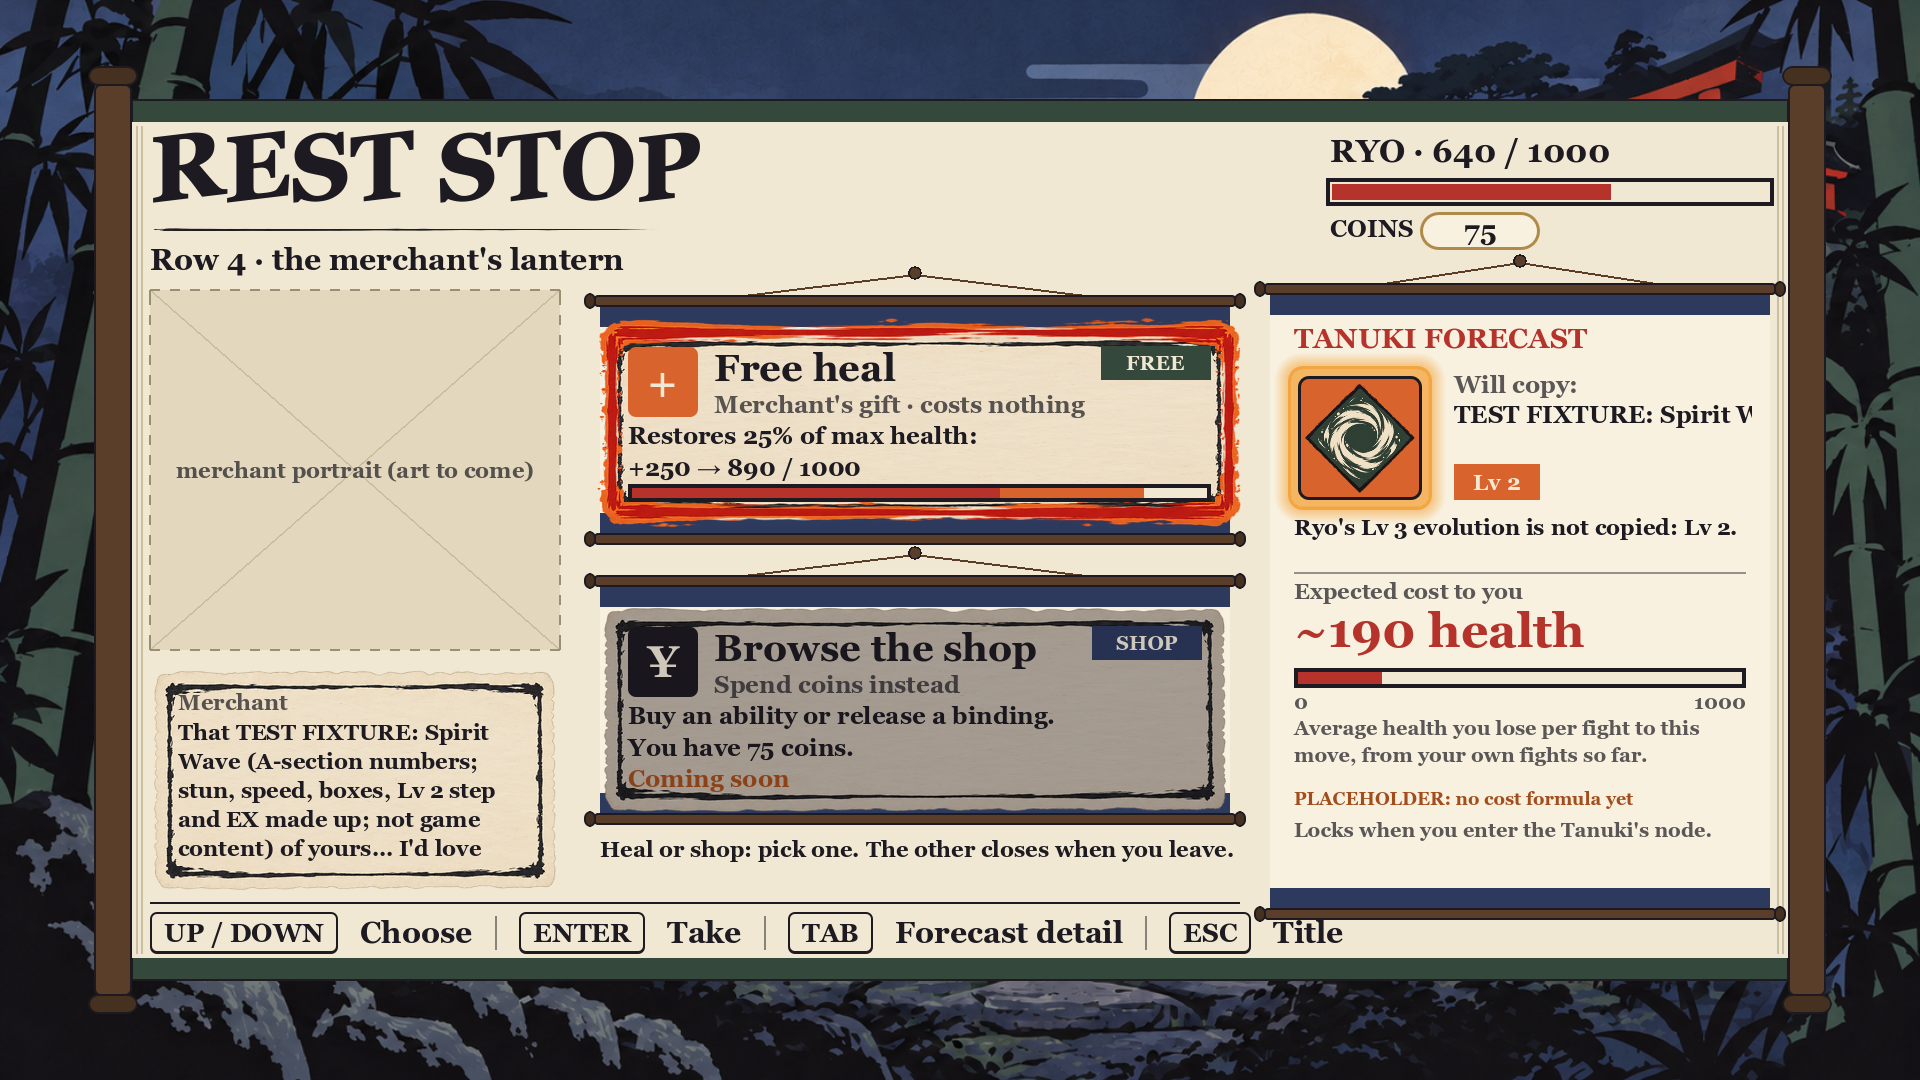
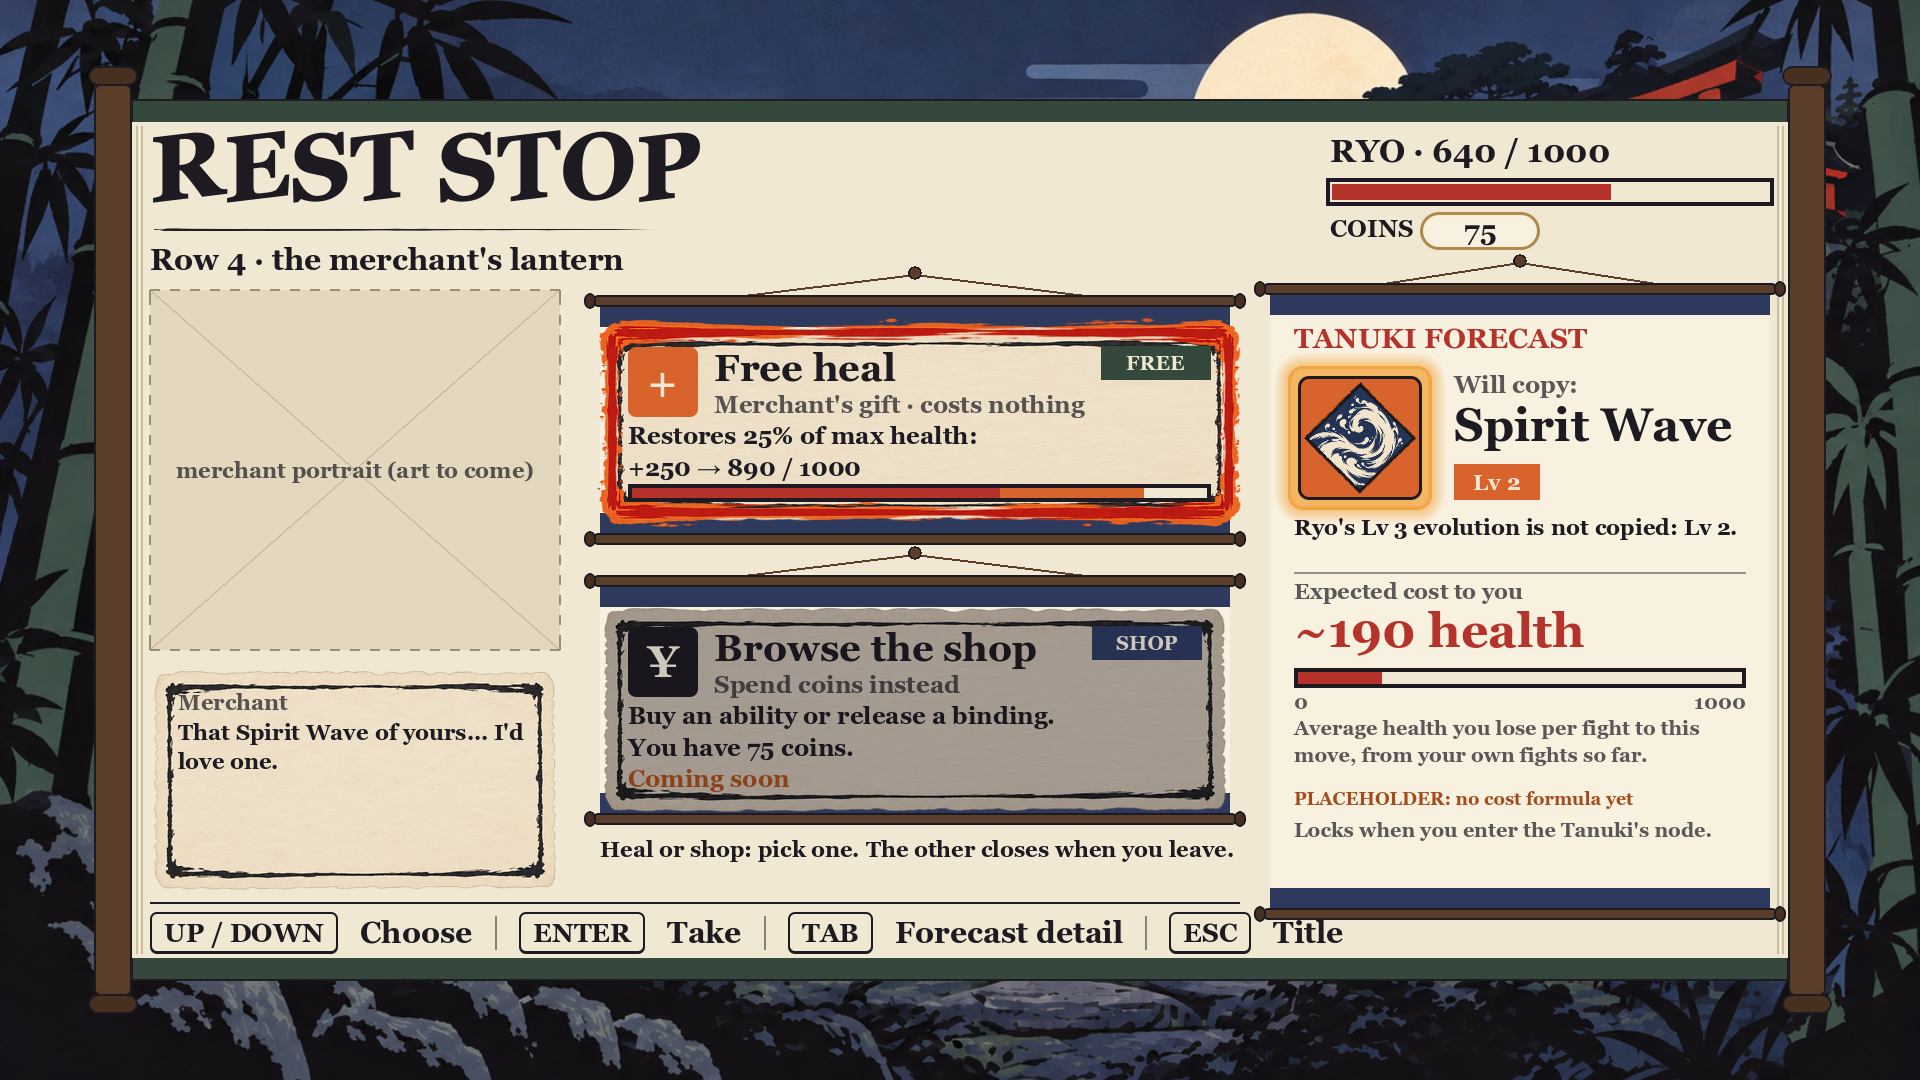
YOK-96-rest-stop-screen: bind the model to its own stop, fit move names, null-forecast labels, row-7 line, coverage

Changed region(s): [[0.0938, 0.6722, 0.2812, 0.7944], [0.6875, 0.3667, 0.9062, 0.4583]]

diff --git a/game/tests/RestStopTests.cs b/game/tests/RestStopTests.cs
@@ -64,6 +64,26 @@ public static class RestStopTests
 		return s;
 	}
 
+	static bool Leads(RunSession s, string from, string to) =>
+		from == to || s.Map.Graph.Next(from).Any(n => Leads(s, n, to));
+
+	/// <summary>A run standing at the named node (a stop), every earlier stop passed and every fight won.</summary>
+	static RunSession AtNode(string nodeId, int health = 300)
+	{
+		var s = NewSession();
+		for (; ; )
+		{
+			var next = s.Reachable();
+			string pick = next.First(id => Leads(s, id, nodeId));
+			Assert.True(s.Enter(pick).Ok, "entered " + pick);
+			if (pick == nodeId) break;
+			if (s.Node!.Type is "merchant" or "dojo") Assert.True(s.CompleteNode().Ok, "a stop passed");
+			else Finish(s, health);
+		}
+		s.Run.SetHealth(health);
+		return s;
+	}
+
 	// ---- the Tanuki forecast (T6) ----
 
 	[Test]
@@ -89,9 +109,16 @@ public static class RestStopTests
 	{
 		var s = AtStop("boss");
 		Assert.True(s.CopyLocked && s.LockedCopy != null, "entering the Tanuki's node took the T1 lock");
-		var f = RestStopScreenForecast.For(s)!;
 		var l = s.LockedCopy!;
-		Assert.True(f.Locked && f.SpecialId == l.Data.Id && f.Slot == l.Slot && f.RyoLevel == l.Level && f.Level == l.MoveLevel, "after the lock: the forecast is LockedCopy");
+		// Ryo moves on after the lock: level the other specials until one overtakes it (T2/T3) ...
+		foreach (var sl in s.Run.Owned.Select(o => o.Slot).Where(x => x != l.Slot).ToList())
+			while (s.Run.CanLevelUp(sl) && CopyRule.Target(s.Run)!.Slot == l.Slot) s.Run.LevelUp(sl);
+		// ... or, if the locked one is out of reach, it is replaced by another special of its slot (A6).
+		if (CopyRule.Target(s.Run)!.Slot == l.Slot)
+			s.Run.Equip(s.Pool.Specials.First(sp => sp.Slot == l.Slot && sp.Id != l.Data.Id));
+		Assert.True(CopyRule.Target(s.Run)!.Data.Id != l.Data.Id,"the current best is now a different special than the lock");
+		var f = RestStopScreenForecast.For(s)!;
+		Assert.True(f.Locked && f.SpecialId == l.Data.Id && f.Slot == l.Slot && f.RyoLevel == l.Level && f.Level == l.MoveLevel, "after the lock: the forecast is still LockedCopy, not the new best");
 	});
 
 	// ---- the model: one choice per stop ----
@@ -133,6 +160,85 @@ public static class RestStopTests
 		s.Enter("r1-apprentice");
 		Assert.True(RestStopScreenModel.Create(s) == null, "a duel is not a stop");
 	});
+
+	[Test]
+	public static void Model_BoundToItsOwnStop_ALaterStopOfTheSessionIsNotIt() => OnFixtures(() =>
+	{
+		var t = AtNode("r4-merchant");
+		var old = RestStopScreenModel.Create(t)!;
+		Assert.True(old.TakeFree().Ok && old.Leave().Ok, "row 4 taken and left");
+		foreach (string id in new[] { "r5-elder-oni", "r6-kitsune", "r7-merchant" })
+		{
+			Assert.True(t.Enter(id).Ok, "entered " + id);
+			if (id != "r7-merchant") Finish(t, 300);
+		}
+		ulong before = t.StateHash();
+		int hp = t.Run.Health;
+		Assert.True(!old.Open && !old.TakeFree().Ok && !old.Leave().Ok, "the row-4 model does nothing at row 7");
+		Assert.True(t.StateHash() == before && t.Run.Health == hp && t.Node!.NodeId == "r7-merchant", "and row 7's choice stays unspent, the node stays entered");
+		var m7 = RestStopScreenModel.Create(t)!;
+		Assert.True(m7.Row == 7 && m7.Kind == RestStopKind.Merchant && m7.Free == RestStopOption.Ready && m7.FreePercent == 25, "a model made for row 7 can take it");
+	});
+
+	[Test]
+	public static void Merchant_Row7_FullHealthHealIsPlusZero_AndTheStopIsStillSpent() => OnFixtures(() =>
+	{
+		var s = AtNode("r7-merchant", 1000);
+		var m = RestStopScreenModel.Create(s)!;
+		Assert.True(m.Row == 7 && m.FreeGain == 0 && m.HealthAfterFree == 1000, "at full health the preview reads +0");
+		Assert.True(m.TakeFree().Ok && s.Run.Health == 1000 && m.FreeGain == 0 && m.ChoiceMade, "taken: nothing healed, the choice is spent anyway");
+		Assert.True(!m.TakeFree().Ok && m.Leave().Ok, "no second take, then leave");
+	});
+
+	[Test]
+	public static void Dojo_QuitThenContinue_ShowsTheDojoAgainWithNoRestTaken_M5(Node runner)
+	{
+		string dir = Path.Combine(Path.GetTempPath(), "yokai-reststop-" + Guid.NewGuid().ToString("N"));
+		Directory.CreateDirectory(dir);
+		var saved = FightScene.Sources;
+		var savedRun = FightScene.Run;
+		var savedFoe = FightScene.Opponent;
+		FightScene.Sources = FightScene.FixtureSources;
+		FightScene.Run = null;
+		MenuSettings.Reset();
+		var flow = GD.Load<PackedScene>("res://scenes/boot.tscn").Instantiate<GameFlow>();
+		flow.QuitAction = () => { };
+		flow.FixedRunSeed = 77;
+		flow.SaveFile = Path.Combine(dir, "run.dat");
+		flow.ConfigureFight = f => f.ExternalDrive = true;
+		try
+		{
+			runner.AddChild(flow);
+			flow.Title.StartButton.EmitSignal(BaseButton.SignalName.Pressed);
+			flow.ControlSelect.Start.EmitSignal(BaseButton.SignalName.Pressed);
+			var s = flow.Session!;
+			while (true)
+			{
+				string id = s.Reachable().First(n => Leads(s, n, "r7-dojo"));
+				Assert.True(flow.ChooseNode(id).Ok, "entered " + id);
+				if (id == "r7-dojo") break;
+				if (flow.NodeScene is RestStopScreen early) Assert.True(early.TakeFree() && early.Leave(), "a stop passed");
+				else Finish(s, 300);
+			}
+			var screen = (RestStopScreen)flow.NodeScene!;
+			int entry = s.Run.Health;
+			Assert.True(screen.TakeFree() && s.Run.Health > entry, "rested");
+			Assert.True(flow.ReturnToTitle() && flow.ContinueRun(), "quit and Continue");
+			var again = (RestStopScreen)flow.NodeScene!;
+			Assert.True(again != screen && again.Model!.Kind == RestStopKind.Dojo && !again.Model.ChoiceMade && !again.ContinueButton.Visible, "the dojo again, no choice taken (M5)");
+			Assert.True(flow.Session!.Run.Health == entry, "entry-state health");
+		}
+		finally
+		{
+			runner.RemoveChild(flow);
+			flow.QueueFree();
+			MenuSettings.Reset();
+			FightScene.Sources = saved;
+			FightScene.Run = savedRun;
+			FightScene.Opponent = savedFoe;
+			try { Directory.Delete(dir, true); } catch (IOException) { }
+		}
+	}
 
 	// ---- the scene ----
 
@@ -254,5 +360,54 @@ public static class RestStopTests
 			FightScene.Opponent = savedFoe;
 			try { Directory.Delete(dir, true); } catch (IOException) { }
 		}
+	}
+
+	[Test]
+	public static void Scene_Row7MerchantShowsNoRow4StoryLine_AndNoForecastClearsItsLabels(Node runner) => OnFixtures(() =>
+	{
+		var s = AtNode("r7-merchant");
+		var screen = GD.Load<PackedScene>(Scene).Instantiate<RestStopScreen>();
+		screen.BindRun(s, ControlScheme.Kihon);
+		runner.AddChild(screen);
+		try
+		{
+			string line = L(screen, "LineBox/Box/Line").Text;
+			Assert.True(!line.Contains("I'd love") && line.Contains("S3"), "row 7 gets a labelled placeholder, not the row-4 card");
+		}
+		finally { runner.RemoveChild(screen); screen.Free(); }
+
+		// Ryo owns no special (a state T5 makes unreachable in play): the forecast has nothing to say and says nothing stale
+		var walked = AtNode("r4-merchant");
+		var run = RunState.Restore(500, Array.Empty<(SpecialSlot, OwnedSpecial)>());
+		run.SetMap(walked.Map);
+		var bare = RunSession.Restore(run, walked.Pool, NodeSceneTable.Default(MapDir), 5, false, null);
+		var empty = GD.Load<PackedScene>(Scene).Instantiate<RestStopScreen>();
+		empty.LineSource = _ => "A line.";
+		empty.BindRun(bare, ControlScheme.Kihon);
+		runner.AddChild(empty);
+		try
+		{
+			Assert.True(RestStopScreenForecast.For(bare) == null, "no forecast");
+			Assert.True(!empty.GetNode<Control>("Forecast/LevelTag").Visible && !empty.GetNode<Control>("Forecast/Placeholder").Visible, "no level tag, no placeholder");
+			Assert.True(L(empty, "Forecast/CostValue").Text == "" && !L(empty, "Forecast/LockNote").Text.Contains("Locks when you enter") && !L(empty, "Forecast/CopyNote").Text.StartsWith("Copied at your level"), "no stale cost, lock or copy line");
+		}
+		finally { runner.RemoveChild(empty); empty.Free(); }
+	});
+
+	[Test]
+	public static void Forecast_EveryMoveNameFitsItsColumn_TheRulesEightAndThePool(Node runner)
+	{
+		var screen = GD.Load<PackedScene>(Scene).Instantiate<RestStopScreen>();
+		runner.AddChild(screen);
+		try
+		{
+			var label = screen.GetNode<Label>("Forecast/SpecialName");
+			var font = label.GetThemeFont("font");
+			var names = new System.Collections.Generic.List<string> { "Spirit Wave", "Rising Talisman", "Foxfire", "Fox Mirage", "Iron-Club Charge", "Oni Quake", "River Grab", "Shell Spin" };
+			names.AddRange(FightScene.LoadAbilityPool().Specials.Select(sp => sp.Name.Length > 0 ? sp.Name : sp.Id));
+			foreach (string n in names.Distinct())
+				Assert.True(RestStopScreen.NameFits(font, n, label.Size.X, label.Size.Y), $"'{n}' fits the forecast column ({label.Size.X}x{label.Size.Y})");
+		}
+		finally { runner.RemoveChild(screen); screen.Free(); }
 	}
 }

diff --git a/game/scripts/Ui/RestStopScreenModel.cs b/game/scripts/Ui/RestStopScreenModel.cs
@@ -16,12 +16,14 @@ public enum RestStopOption { Ready, Taken, Closed, ComingSoon }
 public sealed class RestStopScreenModel
 {
 	readonly RunSession _session;
+	readonly Merchant? _merchant; // the stop this model was made for: a later stop of the session is not this one
+	readonly Dojo? _dojo;
 	int _gain;
 
 	public RestStopKind Kind { get; }
 	public int Row { get; }
 
-	RestStopScreenModel(RunSession session, RestStopKind kind, int row) { _session = session; Kind = kind; Row = row; }
+	RestStopScreenModel(RunSession session, RestStopKind kind, int row, Merchant? merchant, Dojo? dojo) { _session = session; Kind = kind; Row = row; _merchant = merchant; _dojo = dojo; }
 
 	/// <summary>The model for the node Ryo is standing at, or null when it is not a merchant or a dojo.</summary>
 	public static RestStopScreenModel? Create(RunSession session)
@@ -29,8 +31,8 @@ public sealed class RestStopScreenModel
 		if (session?.Node is not { } node) return null;
 		return node.Type switch
 		{
-			NodeTypeRegistry.Merchant when session.Merchant is not null => new(session, RestStopKind.Merchant, node.Row),
-			NodeTypeRegistry.Dojo when session.Dojo is not null => new(session, RestStopKind.Dojo, node.Row),
+			NodeTypeRegistry.Merchant when session.Merchant is not null => new(session, RestStopKind.Merchant, node.Row, session.Merchant, null),
+			NodeTypeRegistry.Dojo when session.Dojo is not null => new(session, RestStopKind.Dojo, node.Row, null, session.Dojo),
 			_ => null,
 		};
 	}
@@ -44,28 +46,29 @@ public sealed class RestStopScreenModel
 	public int FreePercent => Kind == RestStopKind.Merchant ? Merchant.HealPercent : Dojo.RestHealPercent;
 
 	/// <summary>Health after the free option from now (the card's preview), or the health Ryo has once it is taken.</summary>
+	// YOK-98: the dojo's capped preview is recomputed here (Dojo has no 'Healed(health)' like Merchant); move it into Dojo.cs when that file is open.
 	public int HealthAfterFree => Kind == RestStopKind.Merchant ? Merchant.Healed(Health) : Math.Min(MaxHealth, Health + Dojo.RestHeal);
 
 	/// <summary>Health the free option adds from now; once it is taken, what it did add.</summary>
 	public int FreeGain => ChoiceMade ? _gain : HealthAfterFree - Health;
 
 	/// <summary>Both cards: the stop's one choice is spent, whichever card it was.</summary>
-	public bool ChoiceMade => Kind == RestStopKind.Merchant ? _session.Merchant is { Choice: not MerchantChoice.None } : _session.Dojo is { Choice: not DojoChoice.None };
+	public bool ChoiceMade => Kind == RestStopKind.Merchant ? _merchant is { Choice: not MerchantChoice.None } : _dojo is { Choice: not DojoChoice.None };
 
 	/// <summary>The stop is still the one Ryo is standing at (it is not after the node is completed or the run ends).</summary>
-	public bool Open => Kind == RestStopKind.Merchant ? _session.Merchant is { Open: true } : _session.Dojo is { IsOpen: true };
+	public bool Open => Kind == RestStopKind.Merchant ? _merchant is { Open: true } : _dojo is { IsOpen: true };
 
-	public bool CanTakeFree => Kind == RestStopKind.Merchant ? _session.Merchant is { CanHeal: true } : _session.Dojo is { CanRest: true };
+	public bool CanTakeFree => Kind == RestStopKind.Merchant ? _merchant is { CanHeal: true } : _dojo is { CanRest: true };
 
 	/// <summary>The shop screen is YOK-104 and the trial YOK-98: until they land the second card is shown, not takeable.</summary>
 	public static bool SecondCardBuilt { get; set; }
 
 	public RestStopOption Free => !ChoiceMade ? RestStopOption.Ready
-		: Kind == RestStopKind.Merchant ? (_session.Merchant!.Choice == MerchantChoice.Heal ? RestStopOption.Taken : RestStopOption.Closed)
+		: Kind == RestStopKind.Merchant ? (_merchant!.Choice == MerchantChoice.Heal ? RestStopOption.Taken : RestStopOption.Closed)
 		: RestStopOption.Taken;
 
 	public RestStopOption Second => ChoiceMade
-		? (Kind == RestStopKind.Merchant && _session.Merchant!.Choice == MerchantChoice.Shop ? RestStopOption.Taken : RestStopOption.Closed)
+		? (Kind == RestStopKind.Merchant && _merchant!.Choice == MerchantChoice.Shop ? RestStopOption.Taken : RestStopOption.Closed)
 		: SecondCardBuilt ? RestStopOption.Ready : RestStopOption.ComingSoon;
 
 	/// <summary>R6 / R7: takes the free heal or the rest. Refused, changing nothing, when the choice is already made or the stop is left.</summary>
@@ -73,13 +76,16 @@ public sealed class RestStopScreenModel
 	{
 		if (!Open) return MapResult.Fail("Ryo is no longer at this stop");
 		int before = Health;
-		var r = Kind == RestStopKind.Merchant ? _session.Merchant!.TakeHeal() : _session.Dojo!.Rest();
+		var r = Kind == RestStopKind.Merchant ? _merchant!.TakeHeal() : _dojo!.Rest();
 		if (r.Ok) _gain = Health - before;
 		return r;
 	}
 
 	/// <summary>Leaves the stop for the map. Only once the choice is made: leaving without one is an open designer question, so it is not offered.</summary>
-	public MapResult Leave() => ChoiceMade ? _session.CompleteNode() : MapResult.Fail("pick one first: the free option or the second one");
+	public MapResult Leave() =>
+		!Open ? MapResult.Fail("Ryo is no longer at this stop")
+		: !ChoiceMade ? MapResult.Fail("pick one first: the free option or the second one")
+		: _session.CompleteNode();
 
 	public RestStopScreenForecast? Forecast => RestStopScreenForecast.For(_session);
 }

diff --git a/game/scripts/Ui/RestStopScreen.cs b/game/scripts/Ui/RestStopScreen.cs
@@ -134,9 +134,22 @@ public partial class RestStopScreen : Control, INodeScene
 		else footer.SetHints(new("move", "Choose"), new("confirm", "Take"), new("frames", "Forecast detail"), new("back", "Title"));
 	}
 
+	/// <summary>The largest font size (46 down to 20) at which <paramref name="text"/> wraps to fit a column of this size.</summary>
+	public static int NameFontSize(Font font, string text, float width, float height)
+	{
+		int size = 46;
+		while (size > 20 && font.GetMultilineStringSize(text, HorizontalAlignment.Left, width, size, 2).Y > height) size -= 2;
+		return size;
+	}
+
+	/// <summary>True when the name fits its column at the size <see cref="NameFontSize"/> picked (two lines at most).</summary>
+	public static bool NameFits(Font font, string text, float width, float height) =>
+		font.GetMultilineStringSize(text, HorizontalAlignment.Left, width, NameFontSize(font, text, width, height), 2).Y <= height;
+
 	private string DefaultLine(RestStopScreenModel m)
 	{
 		if (m.Kind == RestStopKind.Dojo) return "Dojo master's line (habit-writer: not written yet).";
+		if (m.Row != 4) return "Merchant's line for this stop (habit-writer: S3 schedules only row 4's).";
 		try
 		{
 			var story = Fight.FightScene.LoadStory();
@@ -204,14 +217,17 @@ public partial class RestStopScreen : Control, INodeScene
 		GetNode<TextureRect>(f0 + "IconGlow/IconBox/Icon").Texture = f == null ? null : PauseMoveArt.ForId(f.SpecialId);
 		var nameLabel = L(f0 + "SpecialName");
 		nameLabel.Text = f?.Name ?? "Nothing yet";
-		var font = nameLabel.GetThemeFont("font");
-		int size = 46;
-		while (size > 24 && font.GetStringSize(nameLabel.Text, HorizontalAlignment.Left, -1, size).X > nameLabel.Size.X) size -= 2;
-		nameLabel.AddThemeFontSizeOverride("font_size", size);
+		nameLabel.AddThemeFontSizeOverride("font_size", NameFontSize(nameLabel.GetThemeFont("font"), nameLabel.Text, nameLabel.Size.X, nameLabel.Size.Y));
 		GetNode<Control>(f0 + "LevelTag").Visible = f != null;
 		if (f == null)
 		{
+			// A lock that found no special (or none owned): nothing to forecast, so no level, cost, note or lock line either.
+			GetNode<ProgressBar>(f0 + "CostBar/Fill").Value = 0;
+			L(f0 + "CopyNote").Text = "The Tanuki has nothing of yours to copy.";
 			L(f0 + "CostValue").Text = "";
+			L(f0 + "CostMeaning").Text = "";
+			GetNode<Control>(f0 + "Placeholder").Visible = false;
+			L(f0 + "LockNote").Text = _session is { CopyLocked: true } ? "Locked for this run: no copy." : "";
 			return;
 		}
 		L(f0 + "LevelTag/LevelLabel").Text = $"Lv {f.Level}";

diff --git a/game/tests/RestStopCapture.cs b/game/tests/RestStopCapture.cs
@@ -14,12 +14,12 @@ public partial class RestStopCapture : Node
 {
 	public override async void _Ready()
 	{
-		string dir = ".";
-		foreach (string a in OS.GetCmdlineUserArgs()) if (a.StartsWith("out=")) dir = a[4..];
-		FightScene.Sources = FightScene.FixtureSources;
-		await Shot(dir, "rest_stop_merchant", "merchant", false);
-		await Shot(dir, "rest_stop_dojo", "dojo", false);
-		await Shot(dir, "rest_stop_used", "merchant", true);
+		string dir = ".", suffix = "";
+		foreach (string a in OS.GetCmdlineUserArgs()) { if (a.StartsWith("out=")) dir = a[4..]; if (a.StartsWith("suffix=")) suffix = a[7..]; }
+		// the real pool (move names as the player sees them), not the fixtures
+		await Shot(dir, "rest_stop_merchant" + suffix, "merchant", false);
+		await Shot(dir, "rest_stop_dojo" + suffix, "dojo", false);
+		await Shot(dir, "rest_stop_used" + suffix, "merchant", true);
 		GetTree().Quit();
 	}
 

diff --git a/docs/codebase-map.md b/docs/codebase-map.md
@@ -296,7 +296,7 @@ All UI is real scenes under `game/scenes/ui/`, instanced as children in `game/sc
 | `ui/start_screen.tscn` (control select, instanced by `boot.tscn`) | Kit paper sheet, Controls heading, wide scheme rows, selection frames, Start, reference toggle with KEYBOARD / GAMEPAD grids, key-chip footer | `Fight/StartScreen.cs` (fills the two grids from `InputDevices`; input-leak masking stays in `FightScene.Flow.cs`) |
 | `ui/story_card.tscn` | Dim, paper panel, text label, seal, continue prompt | `Ui/StoryCard.cs` |
 | `ui/reward_screen.tscn` | Kit night backdrop / paper sheet / mask; adjacent Reward heading + live offer count; 3 reward cards, 4 target slots, clickable frame toggle and device-aware key-chip footers | `Ui/RewardScreen.cs` |
-| `ui/rest_stop.tscn` | YOK-96 rest stop (merchant row 4, dojo row 7): scroll-framed sheet, free heal / rest card, shop / trial card (disabled, "Coming soon"), Tanuki forecast scroll (icon, move, level, expected cost labelled PLACEHOLDER), health, coins, line box, key-chip footer, Continue | `Ui/RestStopScreen.cs` (`INodeScene`: `BindRun`, `TakeFree()`, `Leave()`, `TitleRequested`, `Left`), `Ui/RestStopScreenModel.cs` (pure: asks `Merchant` / `Dojo`, one choice, refusals change nothing), `Ui/RestStopScreenForecast.cs` (T6: `CopyRule.Target` before the lock, `RunSession.LockedCopy` after; `ExpectedCost(target)` is the ONE stub for the undefined cost formula), `Ui/RestStopScreenDecor.cs` (drawn rods / hangers). `data/map/node-scenes.json` routes `merchant` and `dojo` here. Not saved inside the stop, so Continue after quit rebuilds it with no choice taken (M5). Tests `tests/RestStopTests.cs`; capture `tests/rest_stop_capture.tscn` (`docs/screenshots/current/rest_stop_*.png`) |
+| `ui/rest_stop.tscn` | YOK-96 rest stop (merchant row 4, dojo row 7): scroll-framed sheet, free heal / rest card, shop / trial card (disabled, "Coming soon"), Tanuki forecast scroll (icon, move, level, expected cost labelled PLACEHOLDER), health, coins, line box, key-chip footer, Continue | `Ui/RestStopScreen.cs` (`INodeScene`: `BindRun`, `TakeFree()`, `Leave()`, `TitleRequested`, `Left`), `Ui/RestStopScreenModel.cs` (pure: asks `Merchant` / `Dojo`, one choice, refusals change nothing), `Ui/RestStopScreenForecast.cs` (T6: `CopyRule.Target` before the lock, `RunSession.LockedCopy` after; `ExpectedCost(target)` is the ONE stub for the undefined cost formula), `Ui/RestStopScreenDecor.cs` (drawn rods / hangers). `data/map/node-scenes.json` routes `merchant` and `dojo` here. The model is bound to the `Merchant` / `Dojo` instance it was made for (a later stop of the session is not it). Notes: (YOK-98) the dojo's capped rest preview is recomputed in `RestStopScreenModel.HealthAfterFree` because `Dojo` has no `Healed(health)` like `Merchant`; move it into `Dojo.cs` when that file is open. A custom map that ends on a merchant or dojo would end the run with no end card (the default map ends on the boss). The pause menu's "Duel n of 2" string (`FightScene.Pause.cs`) now counts stops. Not saved inside the stop, so Continue after quit rebuilds it with no choice taken (M5). Tests `tests/RestStopTests.cs`; capture `tests/rest_stop_capture.tscn` (`docs/screenshots/current/rest_stop_*.png`) |
 | `ui/reward_card.tscn` | Kit paper + selection frame; crest, wrapping name, separate source/tag rows, id-mapped illustration or letter fallback, live plain copy and prompt. Toggle replaces illustration with frame-data panel (scrollable for future longer data). | `Ui/RewardCard.cs` |
 | `ui/target_card.tscn` | Four A–D paper slots: slot crest, id-mapped art or letter/empty plus, live name/level/reason; selected outline and grey ineligible states | `Ui/TargetCard.cs` |
 | `ui/demo_complete.tscn` | Demo-complete card with Restart | `Fight/DemoCompleteScreen.cs` |
